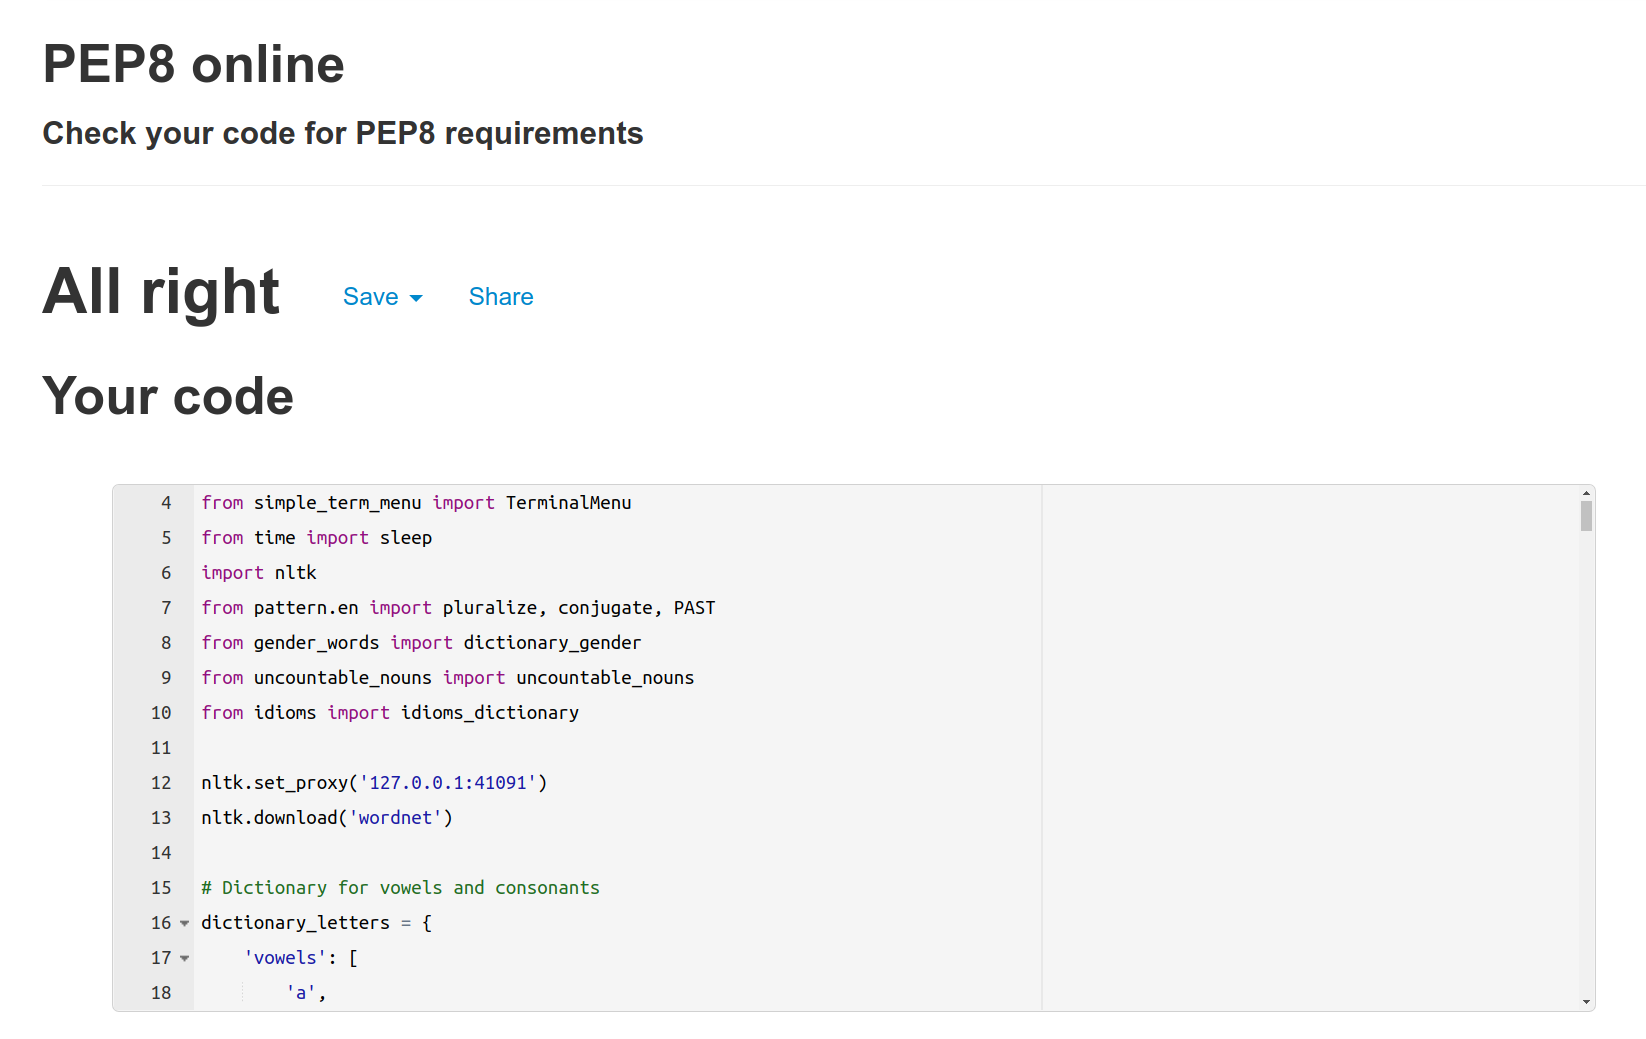
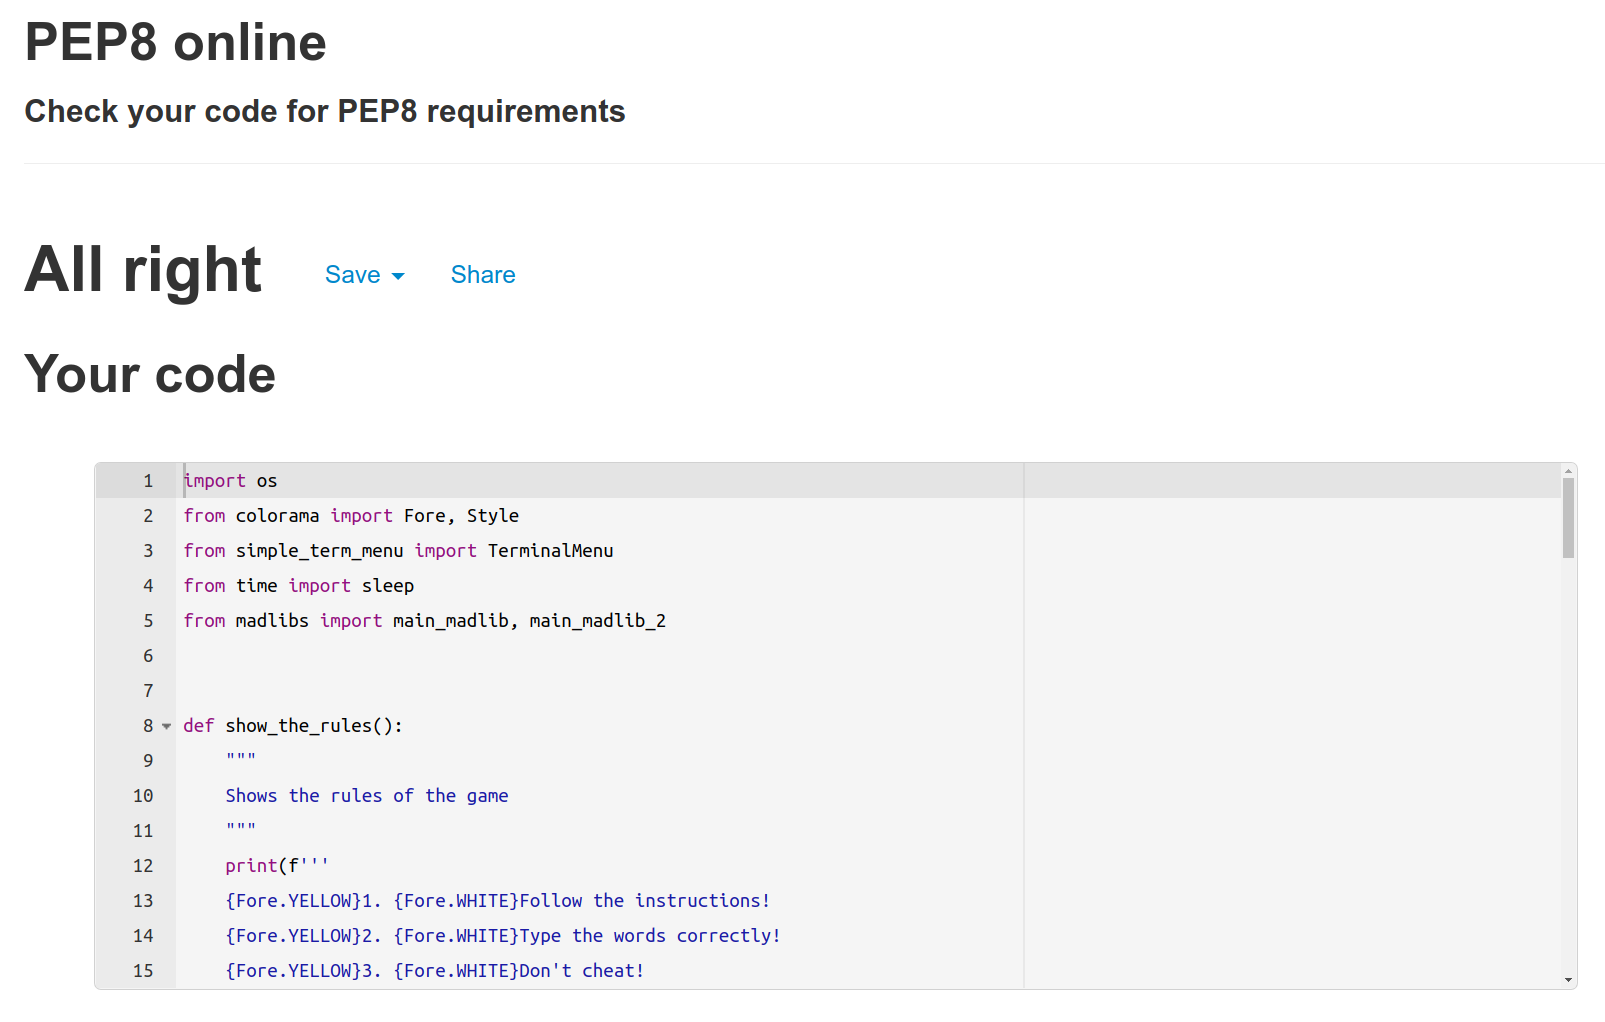
Format code according to pep8 standarts

diff --git a/madlibs.py b/madlibs.py
@@ -1,6 +1,5 @@
 from colorama import Fore, Style
 from simple_term_menu import TerminalMenu
-# from run import verb_formatting, format_pronoun, formatting_personal_pronoun, formatting_reflexive_pronoun, verb_infinitive, plural_noun, choose_article, choosing_a_quantifier, idioms_list, choose_correct_form_be, draw_holes
 from words_formatting import *
 
 
@@ -384,8 +383,8 @@ Eventually, they got the keys!
 "Hurry up! You have not much time!"
     ''',
         f'''
-{Style.BRIGHT}{Fore.WHITE}When our travelers left the tunnel, the {adj2} {noun2}
-easily entered the cell where {famous_person.title()} and {noun1}
+{Style.BRIGHT}{Fore.WHITE}When our travelers left the tunnel, the {adj2}
+{noun2} easily entered the cell where {famous_person.title()} and {noun1}
 had stayed for a while. {format_pronoun(noun2).capitalize()} took
 a camera out of the mirror and placed two boxes in
 the bags for evidence.
@@ -629,9 +628,7 @@ communication between each other. As chatting on {plural_noun(noun3)} and
 go for the invasion in {Fore.RED}the {noun3.capitalize()} galaxy
 {Fore.WHITE}.
 
-And when everything was ready such as enough amount of provision, and enough 
-
-
+And when everything was ready such as enough amount of provision, and enough
 
     '''
     print(madlib_2)

diff --git a/run.py b/run.py
@@ -1,13 +1,8 @@
 import os
-
 from colorama import Fore, Style
 from simple_term_menu import TerminalMenu
 from time import sleep
-
 from madlibs import main_madlib, main_madlib_2
-
-
-
 
 
 def show_the_rules():

diff --git a/words_formatting.py b/words_formatting.py
@@ -11,7 +11,6 @@ nltk.set_proxy('127.0.0.1:41091')
 nltk.download('wordnet')
 
 
-
 def verb_formatting(verb):
     """
     Checks the verb and changes the form of a verb for a sentense
